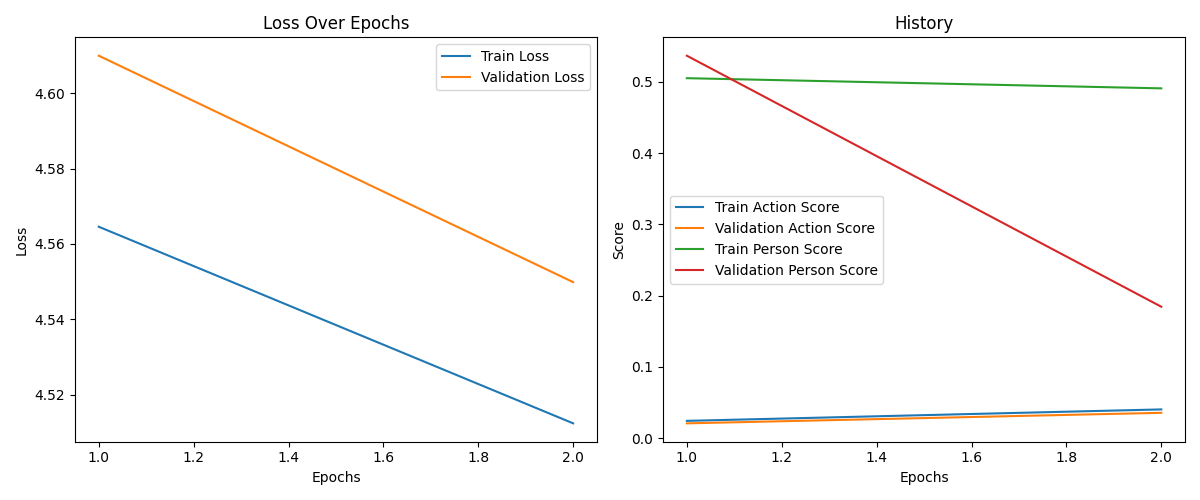
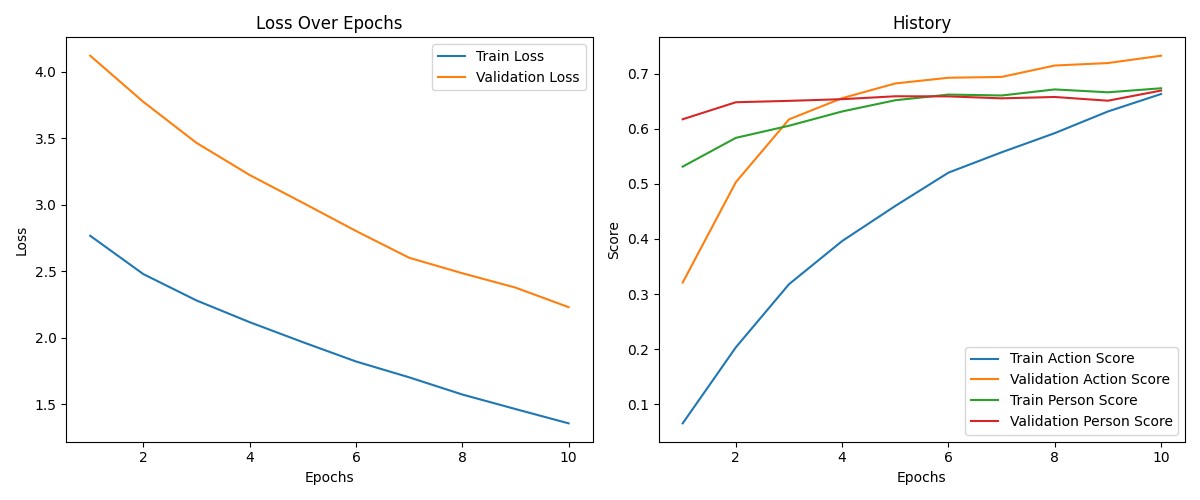
add cbam-based model

diff --git a/models/attention.py b/models/attention.py
@@ -1,7 +1,11 @@
 from torch import nn
 import torch
-from torchvision.models import resnet50, ResNet50_Weights
-from torch.nn import init
+from torchvision.models import (
+    resnet50,
+    ResNet50_Weights,
+    mobilenet_v3_small,
+    MobileNet_V3_Small_Weights,
+)
 
 
 class ChannelAttention(nn.Module):
@@ -79,28 +83,44 @@ class AttentionModel(nn.Module):
         super().__init__()
 
         self.name = name
-        self.backbone = resnet50(weights=ResNet50_Weights.DEFAULT)
+        self.action_backbone = resnet50(weights=ResNet50_Weights.DEFAULT)
+        self.person_backbone = mobilenet_v3_small(
+            weights=MobileNet_V3_Small_Weights.DEFAULT
+        )
 
-        # Freeze backbone if finetune
+        # Action block
         if not finetune:
-            for param in self.backbone.parameters():
+            for param in self.action_backbone.parameters():
                 param.requires_grad = False
 
-        n_feats = self.backbone.fc.in_features
-        self.backbone.fc = nn.Identity()
-
-        self.backbone = nn.Sequential(*list(self.backbone.children())[:-2])
+        action_n_feats = self.action_backbone.fc.in_features
+        self.action_backbone.fc = nn.Identity()
+        self.action_backbone = nn.Sequential(
+            *list(self.action_backbone.children())[:-2]
+        )
 
         # Add attention modules to the backbone and replace the fully connected layer
-        self.att = CBAM(n_feats, reduction_ratio, kernel_size)
-        self.sa = ChannelAttention(n_feats, reduction_ratio)
+        self.action_att = CBAM(action_n_feats, reduction_ratio, kernel_size)
+
+        # Person block
+        if not finetune:
+            for param in self.person_backbone.parameters():
+                param.requires_grad = False
+
+        person_n_feats = self.person_backbone.classifier[0].in_features
+        self.person_backbone.classifier = nn.Identity()
+        self.person_backbone = nn.Sequential(
+            *list(self.person_backbone.children())[:-2]
+        )
+
+        self.person_att = SpatialAttention(kernel_size)
 
         # Pooling
         self.pool_1 = nn.AdaptiveAvgPool2d(1)
         self.pool_2 = nn.AdaptiveAvgPool2d(1)
 
         self.action_fc = nn.Sequential(
-            nn.Linear(n_feats, in_channels[0]),
+            nn.Linear(action_n_feats, in_channels[0]),
             nn.BatchNorm1d(in_channels[0]),
             nn.ReLU(),
             nn.Dropout(dropout_rate),
@@ -111,7 +131,7 @@ class AttentionModel(nn.Module):
         )
 
         self.person_fc = nn.Sequential(
-            nn.Linear(n_feats, in_channels[2]),
+            nn.Linear(person_n_feats, in_channels[2]),
             nn.BatchNorm1d(in_channels[2]),
             nn.ReLU(),
             nn.Dropout(dropout_rate),
@@ -122,15 +142,16 @@ class AttentionModel(nn.Module):
         self.person_out = nn.Linear(in_channels[2], 1)
 
     def forward(self, x):
-        x = self.backbone(x)
-
-        action = self.att(x)
+        action = self.action_backbone(x)
+        action = self.action_att(action)
         action = torch.flatten(self.pool_1(action), 1)
         action = self.action_fc(action)
         action = self.action_out(action)
 
-        person = self.sa(x)
+        person = self.person_backbone(x)
+        person = self.person_att(person)
         person = torch.flatten(self.pool_2(person), 1)
         person = self.person_fc(person)
         person = self.person_out(person)
+
         return action, person

diff --git a/trainer.py b/trainer.py
@@ -58,9 +58,6 @@ class Trainer:
 
         self.model.train()
 
-        λ1 = 0.7  # Weight for action loss
-        λ2 = 0.3  # Weight for person loss
-
         for batch, (img, action, person) in enumerate(self.dataloaders["train"]):
             img, action, person = (
                 img.to(self.device),
@@ -72,7 +69,7 @@ class Trainer:
 
             action_loss = self.loss_fns[0](action_pred, action)
             person_loss = self.loss_fns[1](person_pred, person)
-            loss = λ1 * action_loss + λ2 * person_loss
+            loss = 0.7 * action_loss + 0.3 * person_loss
             total_loss += loss.item()
 
             # Backpropagation

diff --git a/test.py b/test.py
@@ -1,8 +1,8 @@
 import torch
 from torch import nn
-from torchvision.models import resnet50, ResNet50_Weights
+from torchvision.models import mobilenet_v3_small, MobileNet_V3_Small_Weights
 
-model_ft = resnet50(weights=ResNet50_Weights.DEFAULT)
+model_ft = mobilenet_v3_small(weights=MobileNet_V3_Small_Weights.DEFAULT)
 feature_extractor_1 = nn.Sequential(*list(model_ft.children())[:-1])
 feature_extractor_2 = nn.Sequential(*list(model_ft.children())[:-2])
 
@@ -14,3 +14,4 @@ output_2 = feature_extractor_2(x)
 print(output_1.shape)
 print(output_2.shape)
 print(model_ft)
+print(model_ft.classifier[0].in_features)
